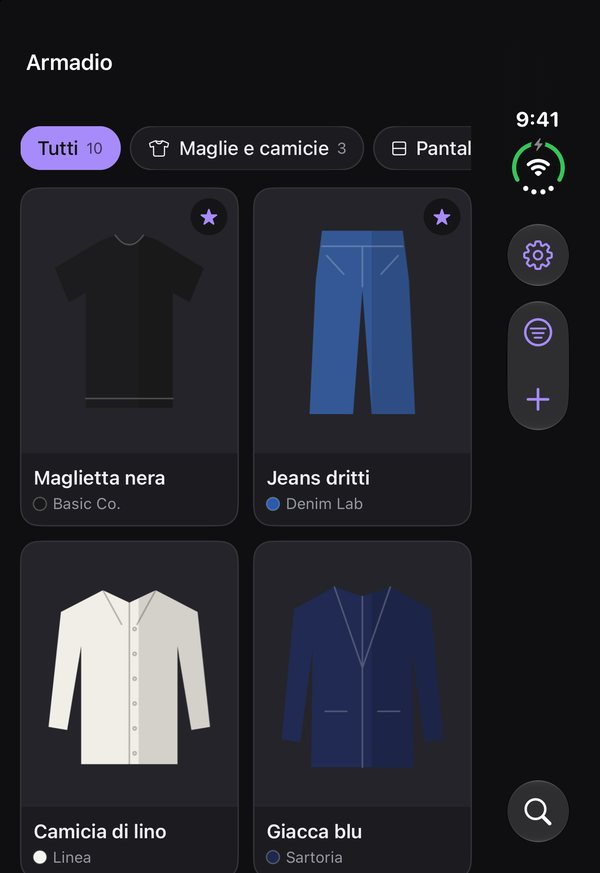
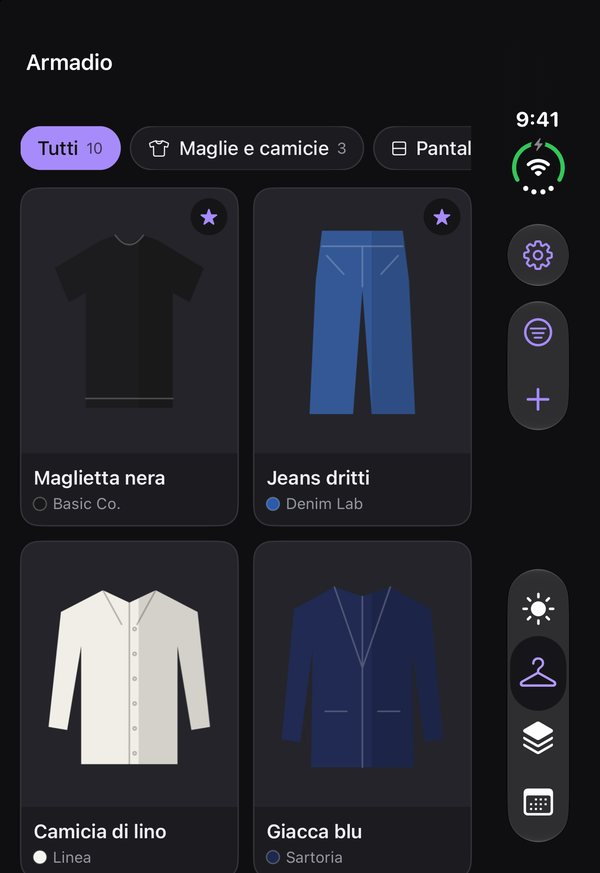
README: outfits, today, diary and the server, new screenshots

Changed region(s): [[0.84, 0.6495, 0.96, 0.9588]]

diff --git a/README.md b/README.md
@@ -3,18 +3,22 @@
 **🇮🇹 Italiano** · [🇬🇧 English](#english)
 
 Il tuo armadio sull'iPhone (SwiftUI, iOS 17+). Fotografa i capi: ShadowWear toglie lo sfondo,
-riconosce colore e tipo e li mette in ordine, tutto sul telefono e senza internet.
+riconosce colore e tipo, compone gli outfit e ogni giorno ti propone cosa mettere col meteo.
+Funziona tutto sul telefono, senza internet; se vuoi, si collega al **server ShadowWear sulla tua
+NAS**, che tiene l'armadio uguale su tutti i dispositivi, lo mostra sul PC e lo fa descrivere
+dall'IA di casa (Ollama).
 
 ## Schermate
 
 **iPhone**
 
 <p>
-  <img src="docs/screenshots/iphone-closet.jpg" width="200" alt="Armadio su iPhone">
+  <img src="docs/screenshots/iphone-today.jpg" width="200" alt="Oggi: meteo e idea di cosa mettere">
+  <img src="docs/screenshots/iphone-closet.jpg" width="200" alt="Armadio">
+  <img src="docs/screenshots/iphone-outfits.jpg" width="200" alt="Outfit">
+  <img src="docs/screenshots/iphone-outfit.jpg" width="200" alt="Un outfit">
+  <img src="docs/screenshots/iphone-diary.jpg" width="200" alt="Diario del mese">
   <img src="docs/screenshots/iphone-detail.jpg" width="200" alt="Scheda di un capo">
-  <img src="docs/screenshots/iphone-edit.jpg" width="200" alt="Modifica di un capo">
-  <img src="docs/screenshots/iphone-favorites.jpg" width="200" alt="Solo i preferiti">
-  <img src="docs/screenshots/iphone-settings.jpg" width="200" alt="Impostazioni">
 </p>
 
 **iPad**
@@ -24,51 +28,67 @@ riconosce colore e tipo e li mette in ordine, tutto sul telefono e senza interne
 | <img src="docs/screenshots/ipad-closet.jpg" alt="Armadio su iPad"> | <img src="docs/screenshots/ipad-detail.jpg" alt="Scheda di un capo su iPad"> |
 | Armadio: tipi, colori e preferiti | Scheda del capo: foto, colori e dettagli |
 
-**iPhone Duo (chiuso)**
+**iPhone Duo (chiuso)**: le schede vanno nella colonna a destra.
 
 <p>
+  <img src="docs/screenshots/duo-today.jpg" width="200" alt="Oggi sull'iPhone Duo chiuso">
+  <img src="docs/screenshots/duo-outfit.jpg" width="200" alt="Un outfit sull'iPhone Duo chiuso">
   <img src="docs/screenshots/duo-closet.jpg" width="200" alt="Armadio sull'iPhone Duo chiuso">
-  <img src="docs/screenshots/duo-detail.jpg" width="200" alt="Scheda sull'iPhone Duo chiuso">
-  <img src="docs/screenshots/duo-edit.jpg" width="200" alt="Modifica sull'iPhone Duo chiuso">
 </p>
 
 <sub>Schermate dal simulatore iOS con capi d'esempio disegnati.</sub>
 
-## Cosa fa (0.1)
+## Cosa fa
 
-- **Armadio** a griglia con ricerca (nome, marca, taglia, note, colore), filtri per tipo, colore e
-  preferiti, ordinato per data, nome o tipo.
-- **Aggiungere capi** dalla fotocamera o dalle foto, anche 30 alla volta: ognuno diventa un capo.
-- **Sfondo tolto sul telefono** con Vision di Apple; la foto originale resta e si può rimettere
-  per ogni foto.
-- **Colori e tipo riconosciuti** da soli (16 colori, 8 tipi: maglie e camicie, pantaloni e gonne,
-  vestiti, giacche e cappotti, scarpe, borse, accessori, altro), da correggere quando serve.
-- **Più foto per capo** (fronte, retro, dettagli), con la copertina da scegliere.
-- **Scheda del capo**: nome, marca, taglia, note, preferito.
-- **Tema scuro**, in italiano e in inglese; funziona su iPhone (anche l'iPhone Duo) e iPad.
-- I capi restano nell'app **File** (ShadowWear → Armadio), da copiare per un backup.
+**Armadio**
+- Griglia con ricerca (nome, marca, taglia, note, colore), filtri per tipo, colore e preferiti.
+- Capi dalla fotocamera o dalle foto, anche 30 alla volta; **sfondo tolto sul telefono** con Vision
+  di Apple (la foto originale resta); **colore e tipo riconosciuti** da soli (16 colori, 8 tipi).
+- Più foto per capo, marca, taglia, note, preferito e **peso** (leggero, medio, pesante) per il meteo.
 
-## In arrivo
+**Outfit**
+- Componi gli outfit toccando i capi: li vedi in un collage. Occasione (tutti i giorni, lavoro,
+  sport, sera, casa), preferiti, note.
 
-- Server ShadowWear sulla NAS: armadio sincronizzato tra i dispositivi, descrizione dei capi con
-  l'IA del proprio server (Ollama) e un sito per aprirlo dal PC.
-- Outfit del giorno con il meteo, valigia, pulizia dell'armadio.
+**Oggi**
+- Il meteo della tua città da Open-Meteo, senza account.
+- Un'**idea di cosa mettere**, tra i tuoi outfit e combinazioni nuove. Tiene conto di freddo e
+  caldo, dei capi messi negli ultimi giorni e dei colori che stonano.
+- *Lo metto oggi* lo scrive nel diario.
+
+**Diario**
+- Il calendario del mese con cosa hai messo ogni giorno. Si possono aggiungere i giorni passati.
+- I capi più messi e quelli mai messi.
+
+**Server sulla NAS** (facoltativo)
+- L'armadio sincronizzato tra iPhone, iPad e il **sito da aprire sul PC**, foto comprese.
+- **Descrivi con l'IA**: il modello di visione del tuo Ollama guarda la foto e propone nome, tipo,
+  colori, peso e note.
+- Una password per il server e un accesso per dispositivo, da scollegare dal sito.
+
+Tema scuro, italiano e inglese, iPhone (anche il Duo) e iPad. I dati sono anche nell'app **File**
+(ShadowWear → Armadio), da copiare per un backup.
 
 ## Installare
 
-Il file `ShadowWear-<versione>-unsigned.ipa` è nelle [release](../../releases): si installa con
-Feather, Sideloadly o AltStore, che lo firmano con il proprio Apple ID.
+L'app: `ShadowWear-<versione>-unsigned.ipa` nelle [release](../../releases), con Feather,
+Sideloadly o AltStore, oppure dalla sorgente Feather
+`https://raw.githubusercontent.com/TheBlackSide243/feather-repo/main/apps.json`.
+
+Il server (TrueNAS, ma va su qualsiasi Docker):
+1. Copia la cartella [`server/`](server) sulla NAS, per esempio in `/mnt/HDD/FILE/NAS/SHADOWWEAR/app`.
+2. Crea una Custom App con [`server/deploy/truenas-app.yaml`](server/deploy/truenas-app.yaml):
+   usa l'immagine `node:22-alpine`, niente da compilare. Cambia percorsi e `OLLAMA_URL` se serve.
+3. Apri `http://<NAS>:30320` sul PC e scegli la password.
+4. Nell'app: Impostazioni → Server → *Collega al server*.
+
+Il server è fatto per la rete di casa: non esporlo su internet senza HTTPS.
 
 ## Compilare
 
-Serve un Mac con Xcode 27 e [XcodeGen](https://github.com/yonaskolb/XcodeGen):
-
-```bash
-xcodegen generate
-open ShadowWear.xcodeproj
-```
-
-L'`.ipa` non firmato lo prepara anche il workflow *iOS IPA* di GitHub Actions a ogni push su `main`.
+App: un Mac con Xcode 27 e [XcodeGen](https://github.com/yonaskolb/XcodeGen) (`xcodegen generate`,
+poi `open ShadowWear.xcodeproj`); l'`.ipa` non firmato lo prepara anche il workflow *iOS IPA*.
+Server: Node 20 o più recente, nessuna dipendenza (`cd server && npm test`, `npm start`).
 
 ## Licenza
 
@@ -82,42 +102,62 @@ L'`.ipa` non firmato lo prepara anche il workflow *iOS IPA* di GitHub Actions a 
 # ShadowWear (English)
 
 Your closet on your iPhone (SwiftUI, iOS 17+). Photograph your clothes: ShadowWear removes the
-background, recognises color and kind and keeps them in order, all on the phone, without internet.
+background, recognises color and kind, puts outfits together and suggests what to wear every day
+with the weather. Everything works on the phone, without internet; if you want, it connects to the
+**ShadowWear server on your NAS**, which keeps the closet the same on all your devices, shows it on
+your computer and has it described by your home AI (Ollama).
 
 ## Screenshots
 
-See the [pictures above](#schermate): iPhone, iPad and iPhone Duo (closed), from the iOS
-simulator with drawn sample pieces.
+See the [pictures above](#schermate): iPhone, iPad and iPhone Duo (closed, with the tabs in the
+right column), from the iOS simulator with drawn sample pieces.
 
-## What it does (0.1)
+## What it does
 
-- **Closet** grid with search (name, brand, size, notes, color), filters by kind, color and
-  favorites, sorted by date, name or kind.
-- **Add pieces** from the camera or your photos, up to 30 at once: each becomes a piece.
-- **Background removed on the phone** with Apple's Vision; the original photo is kept and can be
-  shown again for each photo.
-- **Colors and kind recognised** on their own (16 colors, 8 kinds), to fix when needed.
-- **Several photos per piece** (front, back, details), with a cover of your choice.
-- **Piece details**: name, brand, size, notes, favorite.
-- **Dark theme**, in Italian and English; works on iPhone (including the iPhone Duo) and iPad.
-- Your pieces are also in the **Files** app (ShadowWear → Armadio), to copy for a backup.
+**Closet**
+- Grid with search (name, brand, size, notes, color), filters by kind, color and favorites.
+- Pieces from the camera or your photos, up to 30 at once; **background removed on the phone** with
+  Apple's Vision (the original photo is kept); **color and kind recognised** on their own.
+- Several photos per piece, brand, size, notes, favorite and **weight** (light, medium, warm).
 
-## Coming next
+**Outfits**
+- Put outfits together by tapping pieces, shown as a collage. Occasion, favorites, notes.
 
-- ShadowWear server on a NAS: the closet synced across devices, pieces described by the AI of
-  your own server (Ollama) and a website to open it from a computer.
-- Outfit of the day with the weather, packing, closet clean-up.
+**Today**
+- The weather in your town from Open-Meteo, with no account.
+- An **idea of what to wear**, from your outfits and new combinations. It weighs cold and heat,
+  pieces worn in the last few days, and colors that clash.
+- *I'll wear it today* writes it in the diary.
+
+**Diary**
+- The month's calendar with what you wore each day. Past days can be added.
+- The pieces worn the most and the ones never worn.
+
+**Server on your NAS** (optional)
+- The closet synced between iPhone, iPad and the **site you open on your computer**, photos
+  included.
+- **Describe with AI**: the vision model of your Ollama looks at the photo and suggests name, kind,
+  colors, weight and notes.
+- One password for the server and a sign-in per device, which you can revoke from the site.
 
 ## Installing
 
-`ShadowWear-<version>-unsigned.ipa` is in the [releases](../../releases): install it with Feather,
-Sideloadly or AltStore, which sign it with your Apple ID.
+The app: `ShadowWear-<version>-unsigned.ipa` in the [releases](../../releases), with Feather,
+Sideloadly or AltStore, or from the Feather source above.
+
+The server (TrueNAS, or any Docker host):
+1. Copy [`server/`](server) to the NAS.
+2. Create a Custom App from [`server/deploy/truenas-app.yaml`](server/deploy/truenas-app.yaml). It
+   uses the plain `node:22-alpine` image, so there is nothing to build.
+3. Open `http://<NAS>:30320` and choose the password.
+4. In the app: Settings → Server → *Connect to the server*.
+
+The server is meant for the home network: do not put it on the internet without HTTPS.
 
 ## Building
 
-You need a Mac with Xcode 27 and [XcodeGen](https://github.com/yonaskolb/XcodeGen): run
-`xcodegen generate` and open `ShadowWear.xcodeproj`. The *iOS IPA* GitHub Actions workflow also
-builds the unsigned `.ipa` on every push to `main`.
+App: a Mac with Xcode 27 and XcodeGen. Server: Node 20 or newer, no dependencies
+(`cd server && npm test`).
 
 ## License
 
